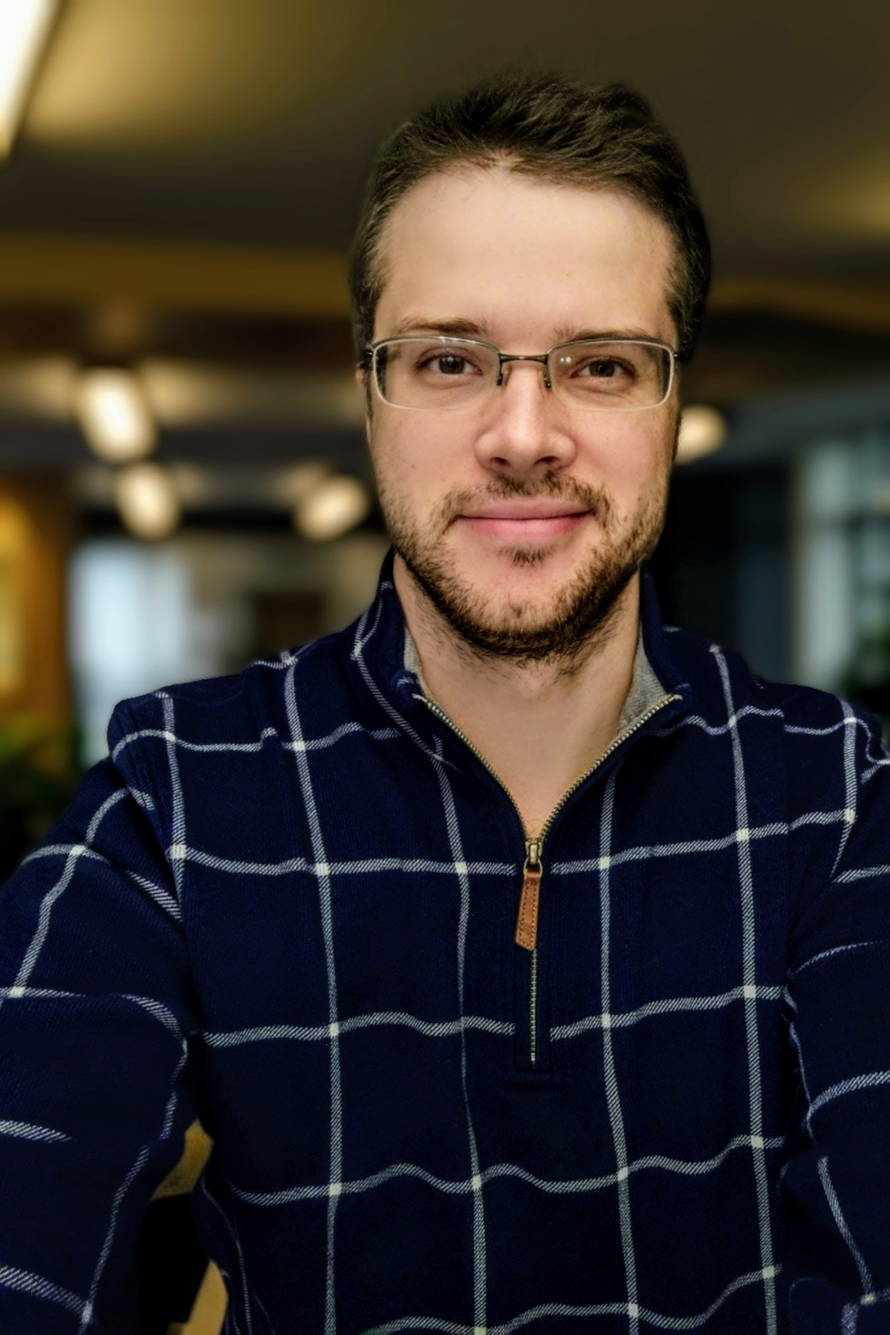
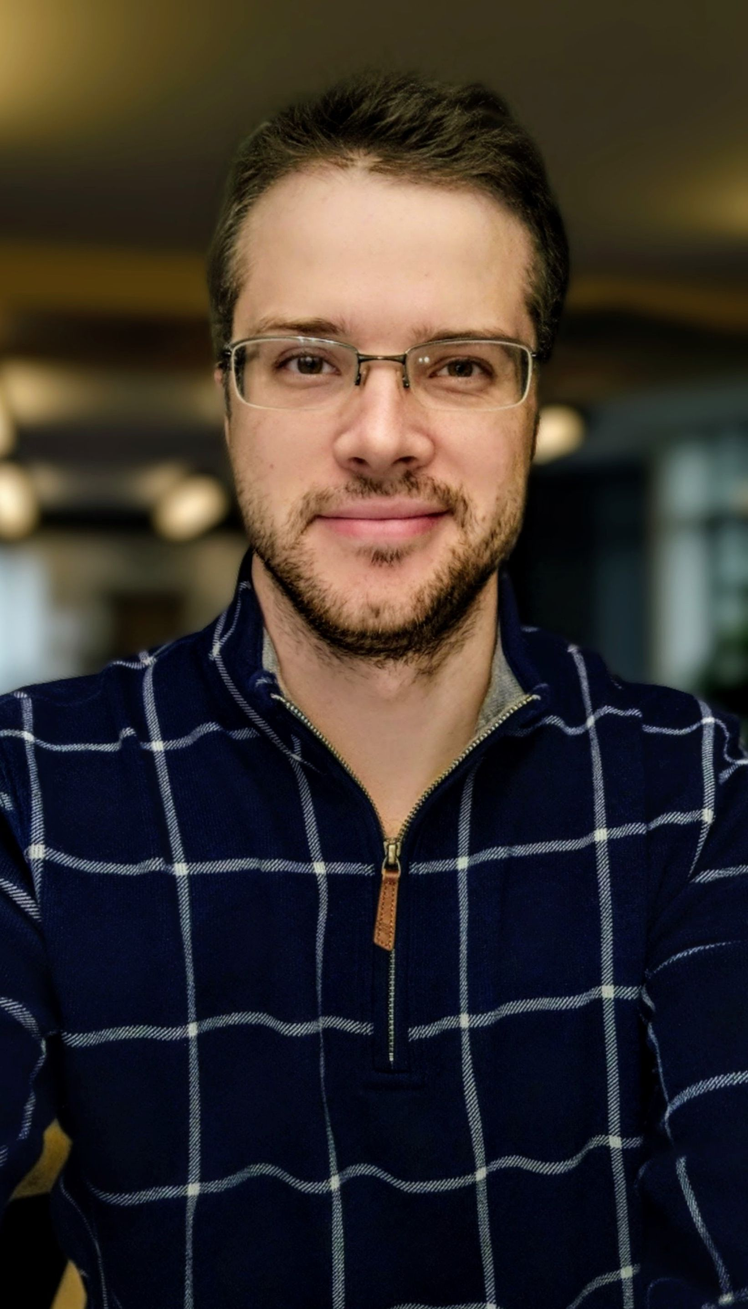
content: rewrite about/hero copy, add headshot to hero

diff --git a/index.html b/index.html
@@ -3,8 +3,8 @@
 <head>
   <meta charset="UTF-8" />
   <meta name="viewport" content="width=device-width, initial-scale=1.0" />
-  <meta name="description" content="Dean Trester — Business Intelligence practitioner. Selected data and dashboard work." />
-  <title>Dean Trester — Business Intelligence</title>
+  <meta name="description" content="Dean Trester, Business Intelligence. Data work and dashboards." />
+  <title>Dean Trester | Business Intelligence</title>
 
   <link rel="preconnect" href="https://fonts.googleapis.com">
   <link rel="preconnect" href="https://fonts.gstatic.com" crossorigin>
@@ -242,17 +242,6 @@
       border:        1px solid var(--bg-shade);
       flex-shrink:   0;
     }
-    .hero-photo-label {
-      position:       absolute;
-      bottom:         1.25rem;
-      left:           0; right: 0;
-      text-align:     center;
-      font-family:    var(--f-mono);
-      font-size:      0.65rem;
-      letter-spacing: 0.15em;
-      text-transform: uppercase;
-      color:          var(--faint);
-    }
 
     .hero-text {
       display: grid;
@@ -438,7 +427,7 @@
       width:  100%;
       height: 100%;
       object-fit:      cover;
-      object-position: top left;
+      object-position: center 8px;
       transition: transform 0.8s cubic-bezier(0.2, 0.8, 0.2, 1);
     }
     .work-card:hover .work-thumb img { transform: scale(1.03); }
@@ -605,14 +594,14 @@
     <div class="container hero-inner">
 
       <div class="hero-photo">
-        <img src="./assets/photo.jpg" alt="Dean Trester" style="width:100%;height:100%;object-fit:cover;" />
+        <img src="./assets/photo.jpg" alt="Dean Trester" style="width:100%;height:100%;object-fit:cover;object-position:center -20px;" />
       </div>
 
       <div class="hero-text">
         <div class="eyebrow">Business Intelligence · Data Practice</div>
         <h1>Dean <em>Trester</em></h1>
         <p class="hero-sub">
-          I build business intelligence systems that turn messy data into clear decisions from models, pipelines, and dashboards to the conversations around them.
+          I build BI systems that turn messy data into clear decisions, in models, pipelines, dashboards, and the conversations around them.
         </p>
         <div class="hero-meta">
           <span>Based in<strong>United States</strong></span>
@@ -628,20 +617,19 @@
   <section id="about">
     <div class="container">
       <div class="section-label">
-        <span class="num">01</span>
         <span>About</span>
       </div>
       <div class="about-grid reveal">
-        <h2 class="about-heading">Clarity over <em>cleverness.</em></h2>
+        <h2 class="about-heading">Good data.<br><em>Better decisions.</em></h2>
         <div class="about-body">
           <p>
-            I'm a business intelligence practitioner with a decade of experience designing data models, building dashboards, and helping teams actually see what's happening in their businesses. Most of my work has been at the intersection of messy operational data and the people who need to make decisions with it.
+            I didn't plan to end up in BI. I came up through accounts payable exceptions, moved into procurement QA, and eventually landed in data analytics. Each step followed the same instinct: something's off, let me figure out what. That's still how I approach most problems. Data work, at its best, feels like detective work.
           </p>
           <p>
-            I'm currently based in the United States and looking to bring my practice to Japan. What draws me there is the same thing that draws me to this work: a culture of craft, rigor, and care for getting the details right.
+            Japan has been a pull since I was a kid. Anime before it was cool, the food, the culture, the language I always wished I'd learned in school. It was never a career calculation. I'm studying Japanese now and working toward making the move.
           </p>
           <p>
-            I care about clarity, honesty in data, and interfaces that don't get in the way. If that sounds like a fit, I'd love to talk.
+            On the work itself: I care about clean queries, well-structured models, and not overengineering things. I've inherited enough messy setups to know how much that stuff compounds. I try to leave things in a state I'd want to find them.
           </p>
         </div>
       </div>
@@ -651,7 +639,6 @@
   <section id="work">
     <div class="container">
       <div class="section-label">
-        <span class="num">02</span>
         <span>Selected Work</span>
       </div>
       <div class="work-grid">
@@ -659,7 +646,7 @@
         <!-- TODO: replace href="#" with live Render URL -->
         <a class="work-card reveal" href="#" target="_blank" rel="noopener">
           <div class="work-thumb">
-            <img src="./assets/japan-population.png" alt="Japanese Population dashboard — choropleth map, age pyramid, time series." loading="lazy" />
+            <img src="./assets/japan-population.png" alt="Japanese Population dashboard: choropleth map, age pyramid, time series." loading="lazy" />
           </div>
           <div class="work-meta">
             <span>Dashboard · 2025</span>
@@ -667,7 +654,7 @@
           </div>
           <h3 class="work-title">Japanese Population Dashboard</h3>
           <p class="work-desc">
-            A century of Japan's prefecture-level population data — animated across time, with age pyramids, regional choropleths, and a bilingual UI.
+            100 years of Japan's prefecture-level population data. Animated by year, with age pyramids, regional choropleths, and a bilingual interface.
           </p>
           <div class="work-tags">
             <span>Python</span><span>DuckDB</span><span>Plotly</span><span>Dash</span><span>SQL</span>
@@ -677,7 +664,7 @@
         <!-- TODO: replace href="#" with live Render URL -->
         <a class="work-card reveal" href="#" target="_blank" rel="noopener">
           <div class="work-thumb">
-            <img src="./assets/artemis-ii.png" alt="Artemis II Mission Playback — Earth-Moon trajectory and telemetry console." loading="lazy" />
+            <img src="./assets/artemis-ii.png" alt="Artemis II Mission Playback: Earth-Moon trajectory and telemetry console." loading="lazy" />
           </div>
           <div class="work-meta">
             <span>Dashboard · 2025</span>
@@ -685,7 +672,7 @@
           </div>
           <h3 class="work-title">Artemis II · Mission Playback</h3>
           <p class="work-desc">
-            A time-scrubbable playback of the Artemis II lunar trajectory — vectors, orbital state, gravitational pull, and comms range rendered as a mission-ops console.
+            A scrubbable playback of the Artemis II lunar trajectory. Vectors, orbital state, gravitational pull, and comms range in a mission-ops layout.
           </p>
           <div class="work-tags">
             <span>Python</span><span>Plotly</span><span>Dash</span><span>Orbital Mechanics</span>
@@ -699,7 +686,6 @@
   <section id="contact">
     <div class="container reveal">
       <div class="section-label">
-        <span class="num">03</span>
         <span>Contact</span>
       </div>
       <h2 class="contact-heading">Let's <em>talk.</em></h2>
